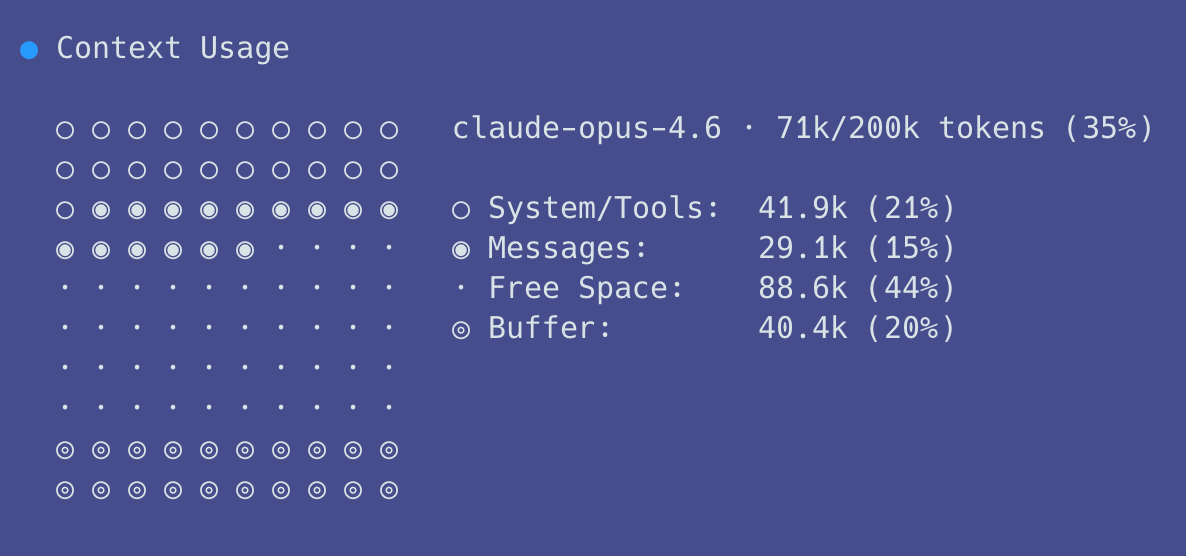
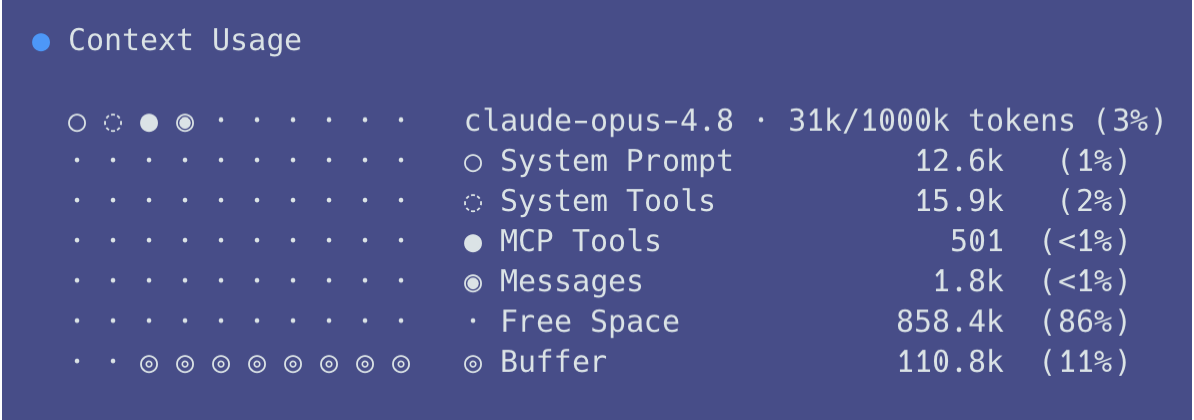
Copilot CLI: Update `/context` output (#61790)

diff --git a/content/copilot/concepts/agents/copilot-cli/context-management.md b/content/copilot/concepts/agents/copilot-cli/context-management.md
@@ -34,12 +34,15 @@ This means that in a very long session, {% data variables.product.prodname_copil
 
 ## Checking your context usage
 
-You can check how much of the context window is currently in use by entering the `/context` slash command. This displays a visual breakdown of your token usage, showing:
+You can use the `/context` slash command to visualize your current context window usage. The first line of the output shows the active model and the number of tokens currently in use out of the model's total context window capacity. The remainder of the output shows token usage, and context window percentage, for:
 
-* **System/Tools**: The fixed overhead of system instructions and tool definitions.
-* **Messages**: The space used by your conversation history.
-* **Free Space**: How much room is left for new messages.
-* **Buffer**: A reserved portion that triggers automatic context management.
+* **System Prompt**: the base system prompt.
+* **Custom Instructions**: your loaded custom instructions (shown only when present).
+* **System Tools**: built-in tool definitions.
+* **MCP Tools**: tool definitions contributed by MCP servers.
+* **Messages**: your conversation history.
+* **Free Space**: unused context still available.
+* **Buffer**: capacity reserved for the model's response and headroom.
 
 ![Screenshot of the output of the '/context' CLI command.](/assets/images/help/copilot/copilot-cli-context-usage.png)
 